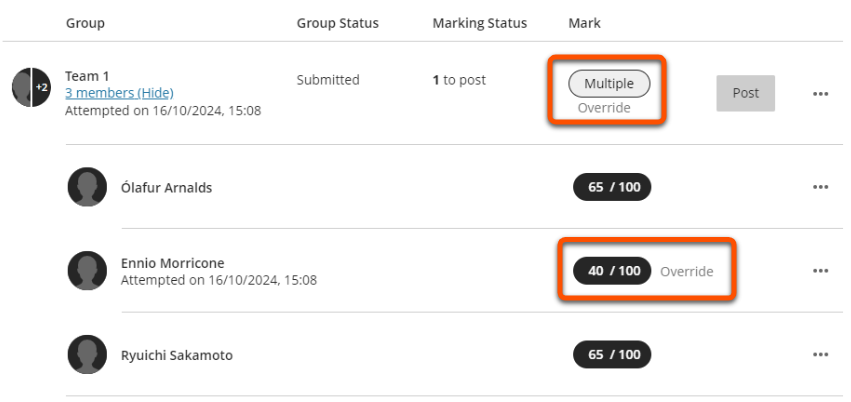
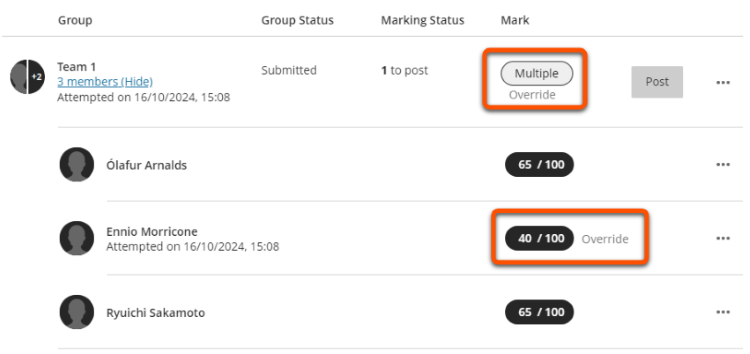
Group assignment - individual marks

Changed region(s): [[0.644, 0.1243, 0.7667, 0.1554], [0.092, 0.2175, 0.1227, 0.2486], [0.0307, 0.2175, 0.0613, 0.2486]]

diff --git a/docs/ultra/assignment-groups.md b/docs/ultra/assignment-groups.md
@@ -171,7 +171,7 @@ If you need to award different marks for individual group members (eg. one stude
 </br>![decorative](images/assignment-groups-show-group-members.png)
 4. Locate the relevant student, click the **mark pill** and enter/update the individual mark.
 
-Adjusted individual marksand the overall group mark (now shown as *Muiltiple*) are labelled as *Override* marks.
+Adjusted individual marks and the overall group mark (now showing *Multiple*) are labelled as *Override* marks.
 
 ![decorative](images/assignment-groups-individual-mark.png)
 
@@ -179,6 +179,7 @@ Additional notes on individual marking behaviour:
 
 - If individual marks are entered for each student without entering an overall group mark, the attempt will still show as Needs Marking.
 - Individual marks can only be given for the final mark, not for individual attempts (this is only relevant if you mark more than one attempt).
+- You can also update individual marks on the Gradebook Marks tab, but this does not show student groupings.
 
 <!-- ## Testing your group Assignment -->
 
